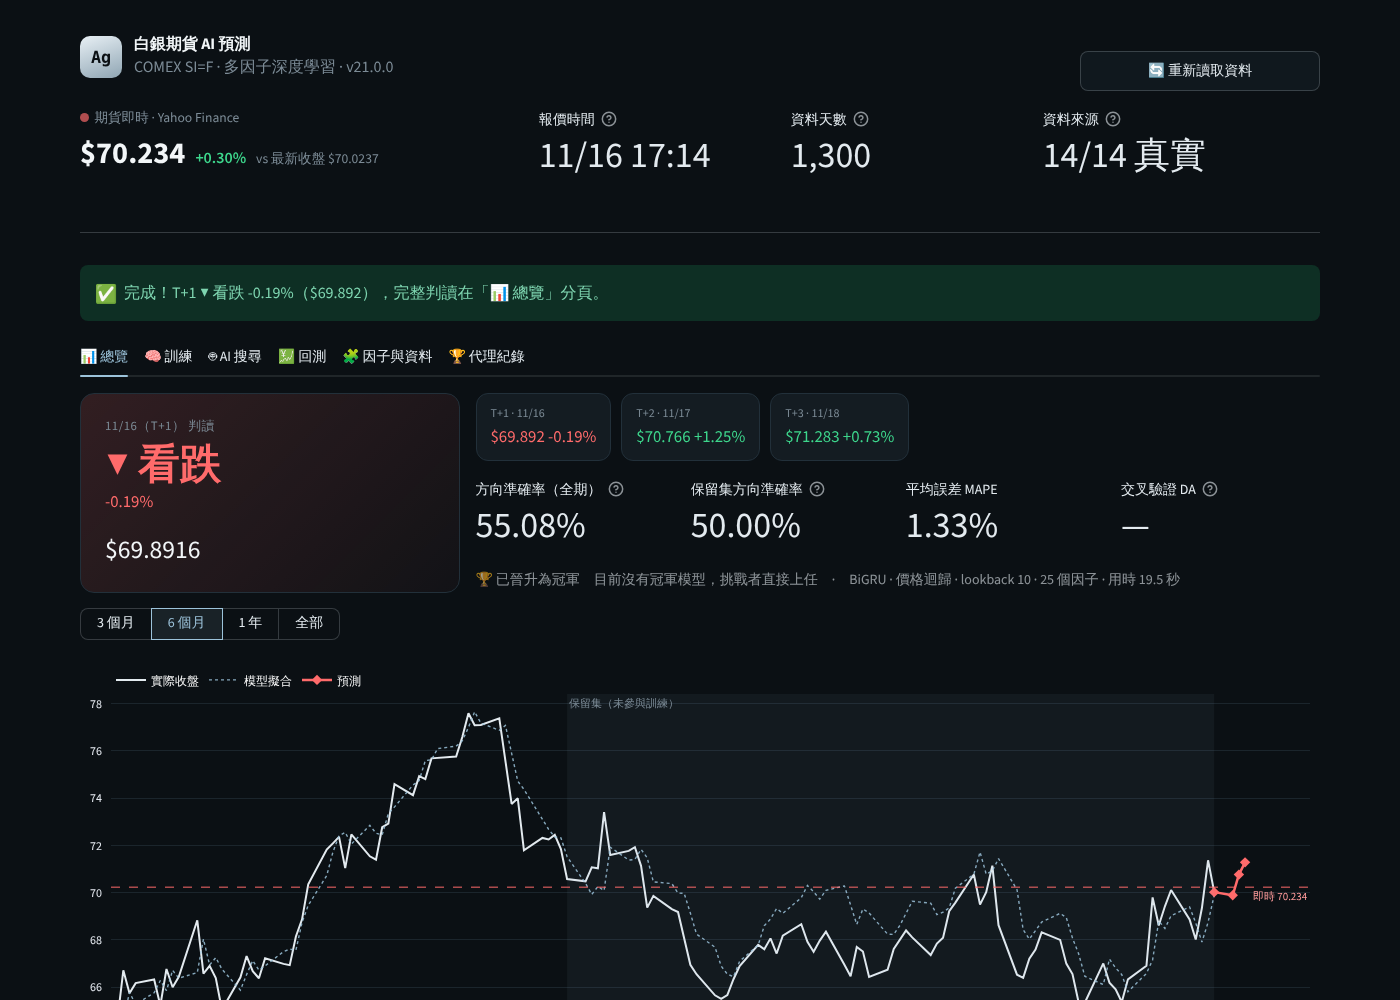
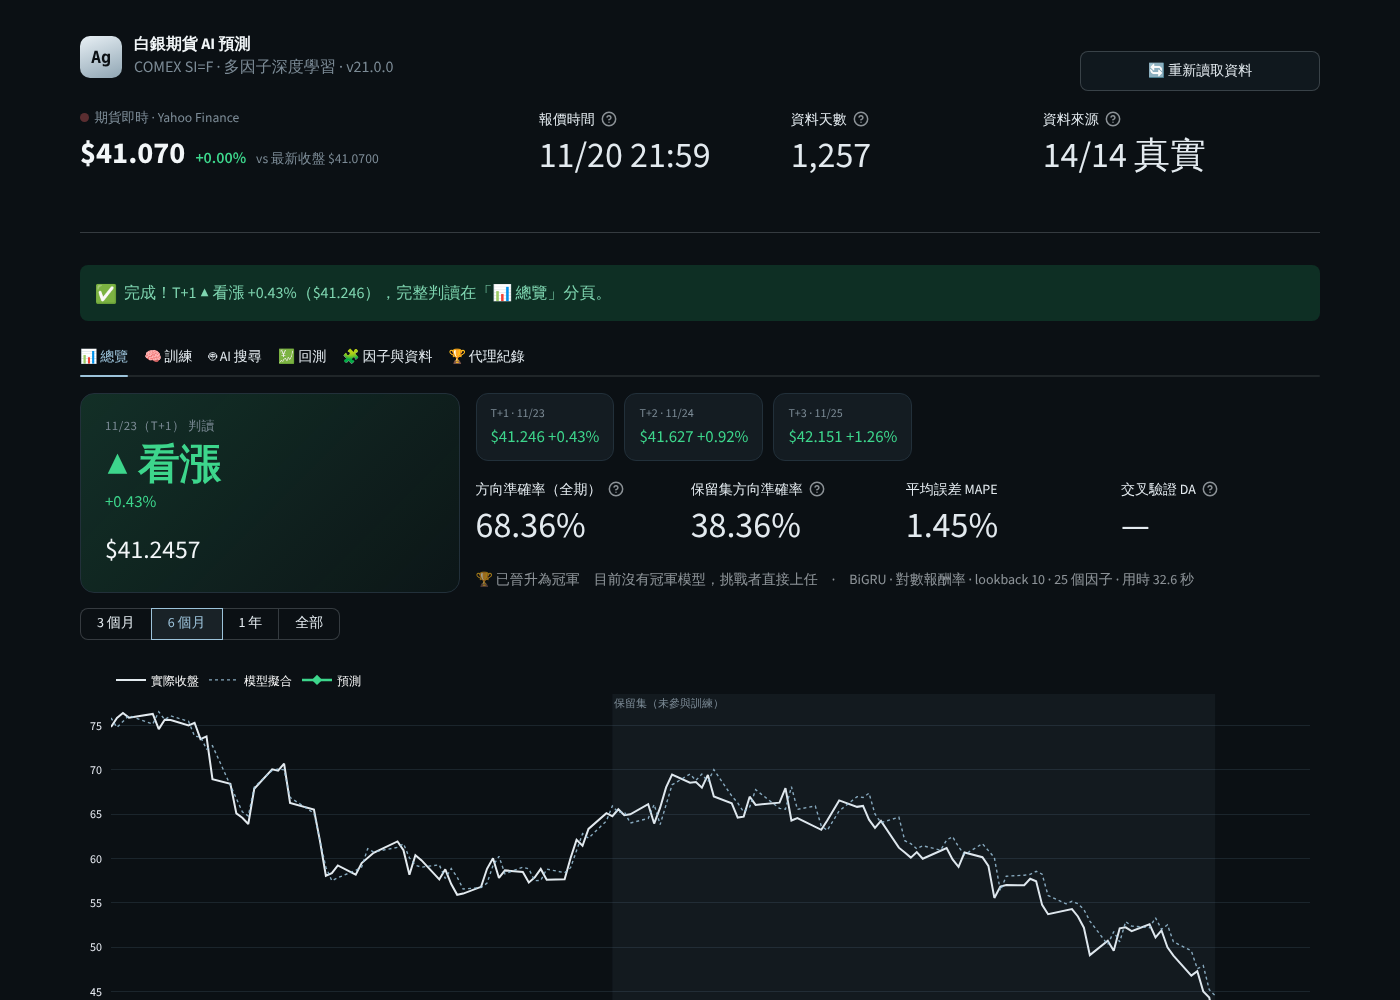
Python web app: fix data sources, default to log-return target, prepare Streamlit Cloud deploy
Verified against live data (all 14 sources real, ~5 s load):
- CFTC Disaggregated renamed its date column to report_date_as_yyyy_mm_dd
- Treasury TIPS XML field renamed BC_5YEAR -> TC_5YEAR
- Google Trends needs a session cookie and 'today 5-y' time range
- Default prediction target is now logreturn: price-level models had 3-7%
  level error, producing implausible T+1 moves (+16%, -37%); add a warning
  when T+1 exceeds 3x recent daily volatility
- CPU-only torch in requirements; root .streamlit/config.toml for Cloud
- README: Streamlit Community Cloud deploy steps; real-data screenshot

Claude-Session: https://claude.ai/code/session_01WDdspXUzGJyR9Gm2KvGEDq

diff --git a/python/silver_trader/sources.py b/python/silver_trader/sources.py
@@ -28,11 +28,12 @@ UA = ("Mozilla/5.0 (Windows NT 10.0; Win64; x64) AppleWebKit/537.36 "
 # ══════════════════════════════════════════════════════════════
 # 網路入口（測試時 monkeypatch 這幾個函式）
 # ══════════════════════════════════════════════════════════════
-def http_get(url: str, timeout: float = 12.0, headers: dict | None = None) -> requests.Response:
-    h = {"User-Agent": UA, "Accept": "*/*"}
+def http_get(url: str, timeout: float = 12.0, headers: dict | None = None,
+             session: requests.Session | None = None) -> requests.Response:
+    h = {"User-Agent": UA, "Accept": "*/*", "Accept-Language": "en-US,en;q=0.9"}
     if headers:
         h.update(headers)
-    r = requests.get(url, timeout=timeout, headers=h)
+    r = (session or requests).get(url, timeout=timeout, headers=h)
     r.raise_for_status()
     return r
 
@@ -219,9 +220,10 @@ class AuxResult:
 def fetch_cot() -> AuxResult:
     """CFTC COT（Disaggregated 管理基金淨部位 → Legacy 非商業淨部位）。"""
     sources = [
-        ("CFTC Disaggregated", "https://publicreporting.cftc.gov/resource/72hh-3qpy.json",
-         "as_of_date_form_yyyy_mm_dd", "m_money_positions_long_all", "m_money_positions_short_all"),
-        ("CFTC Legacy", "https://publicreporting.cftc.gov/resource/6dca-aqww.json",
+        # 2026 年起 Disaggregated 資料集已沒有 as_of_date_form_yyyy_mm_dd 欄位，日期改用 report_date_as_yyyy_mm_dd
+        ("CFTC Disaggregated（管理基金）", "https://publicreporting.cftc.gov/resource/72hh-3qpy.json",
+         "report_date_as_yyyy_mm_dd", "m_money_positions_long_all", "m_money_positions_short_all"),
+        ("CFTC Legacy（非商業）", "https://publicreporting.cftc.gov/resource/6dca-aqww.json",
          "report_date_as_yyyy_mm_dd", "noncomm_positions_long_all", "noncomm_positions_short_all"),
     ]
     wheres = [
@@ -257,7 +259,8 @@ def fetch_tips(years: list[int]) -> AuxResult:
             xml = http_get(f"{base}?data=daily_treasury_real_yield_curve&field_tdr_date_value={y}", timeout=15).text
             for blk in re.findall(r"<m:properties>[\s\S]*?</m:properties>", xml):
                 dm = re.search(r"<d:NEW_DATE[^>]*>(\d{4}-\d{2}-\d{2})", blk)
-                vm = re.search(r"<d:BC_5YEAR[^>]*>([\d.\-]+)</d:BC_5YEAR>", blk)
+                # 美國財政部已把欄位由 BC_5YEAR 改名為 TC_5YEAR，兩種都接受
+                vm = re.search(r"<d:(?:TC|BC)_5YEAR[^>]*>([\d.\-]+)</d:(?:TC|BC)_5YEAR>", blk)
                 if dm and vm:
                     recs[pd.Timestamp(dm.group(1))] = float(vm.group(1))
         except Exception as e:  # noqa: BLE001
@@ -265,7 +268,7 @@ def fetch_tips(years: list[int]) -> AuxResult:
     if recs:
         s = pd.Series(recs).sort_index()
         return AuxResult(s, "US Treasury", True, f"{len(s)} 筆")
-    return AuxResult(None, "無", False, "；".join(errors[-2:]))
+    return AuxResult(None, "無", False, "；".join(errors[-2:]) or "回應中找不到 5 年期 TIPS 欄位")
 
 
 def fetch_fear_greed() -> AuxResult:
@@ -305,15 +308,20 @@ def fetch_stocktwits() -> AuxResult:
 
 
 def fetch_google_trends(start: pd.Timestamp) -> AuxResult:
-    t = f"{start:%Y-%m} {datetime.now():%Y-%m}"
+    """Google Trends「silver」美國週度熱度。需要先拿到 Google 的 cookie，時間範圍用 "today 5-y"。"""
     try:
+        sess = requests.Session()
+        try:
+            http_get("https://trends.google.com/trends/?geo=US", timeout=12, session=sess)
+        except Exception:  # noqa: BLE001
+            pass
         q = urlencode({"hl": "en-US", "tz": "-480", "req": json.dumps(
-            {"comparisonItem": [{"keyword": "silver", "geo": "US", "time": t}], "category": 0, "property": ""})})
-        txt = http_get(f"https://trends.google.com/trends/api/explore?{q}", timeout=12).text
+            {"comparisonItem": [{"keyword": "silver", "geo": "US", "time": "today 5-y"}], "category": 0, "property": ""})})
+        txt = http_get(f"https://trends.google.com/trends/api/explore?{q}", timeout=12, session=sess).text
         widgets = json.loads(txt[txt.index("{"):]).get("widgets", [])
         w = next(w for w in widgets if w.get("id") == "TIMESERIES")
         q2 = urlencode({"hl": "en-US", "tz": "-480", "token": w["token"], "req": json.dumps(w["request"])})
-        txt2 = http_get(f"https://trends.google.com/trends/api/widgetdata/multiline?{q2}", timeout=12).text
+        txt2 = http_get(f"https://trends.google.com/trends/api/widgetdata/multiline?{q2}", timeout=12, session=sess).text
         tl = json.loads(txt2[txt2.index("{"):])["default"]["timelineData"]
         s = pd.Series({pd.Timestamp(int(p["time"]), unit="s").normalize(): float((p.get("value") or [50])[0]) for p in tl}).sort_index()
         if s.empty:

diff --git a/python/tests/fakes.py b/python/tests/fakes.py
@@ -45,18 +45,18 @@ def install(monkeypatch=None, *, quote_ok=True, quote_age_h=0.2, history_ok=True
         t = pd.Timestamp(datetime.now(timezone.utc) - timedelta(hours=quote_age_h))
         return pd.DataFrame({"Close": [qp]}, index=pd.DatetimeIndex([t]))
 
-    def http_get(url, timeout=12.0, headers=None):
+    def http_get(url, timeout=12.0, headers=None, session=None):
         if not aux_ok or "stooq" in url or "finance.yahoo" in url:
             raise RuntimeError("network blocked")
         if "publicreporting.cftc.gov" in url:
             d = pd.date_range(end=pd.Timestamp.now(), periods=150, freq="W-TUE")
-            return FakeResp(json.dumps([{"as_of_date_form_yyyy_mm_dd": x.strftime("%Y-%m-%dT00:00:00"),
+            return FakeResp(json.dumps([{"report_date_as_yyyy_mm_dd": x.strftime("%Y-%m-%dT00:00:00"),
                                          "m_money_positions_long_all": str(40000 + i * 50),
                                          "m_money_positions_short_all": "20000"} for i, x in enumerate(d)]))
         if "treasury.gov" in url:
             y = url.split("=")[-1]
             blocks = "".join(f"<m:properties><d:NEW_DATE m:type=\"Edm.DateTime\">{y}-{m:02d}-15T00:00:00</d:NEW_DATE>"
-                             f"<d:BC_5YEAR m:type=\"Edm.Double\">{1.5 + m / 20:.2f}</d:BC_5YEAR></m:properties>"
+                             f"<d:TC_5YEAR m:type=\"Edm.Double\">{1.5 + m / 20:.2f}</d:TC_5YEAR></m:properties>"
                              for m in range(1, 13))
             return FakeResp(blocks)
         if "dataviz.cnn.io" in url:
@@ -66,6 +66,8 @@ def install(monkeypatch=None, *, quote_ok=True, quote_age_h=0.2, history_ok=True
         if "stocktwits" in url:
             return FakeResp(json.dumps({"messages": [{"entities": {"sentiment": {"basic": "Bullish" if i % 3 else "Bearish"}}} for i in range(30)]}))
         if "trends.google.com" in url:
+            if "/trends/?" in url:
+                return FakeResp("")
             if "explore" in url:
                 return FakeResp(")]}'\n" + json.dumps({"widgets": [{"id": "TIMESERIES", "token": "t", "request": {}}]}))
             d = pd.date_range(end=pd.Timestamp.now(), periods=260, freq="W")

diff --git a/python/app.py b/python/app.py
@@ -177,6 +177,11 @@ def tab_overview():
         return
 
     up, pct = r.t1_up, r.t1_pct
+    vol = float(md.frame["price"].pct_change().tail(60).std() * 100)
+    if np.isfinite(vol) and vol > 0 and abs(pct) > 3 * vol:
+        st.warning(f"這次預測的明日漲跌 **{pct:+.2f}%**，超過近 60 日每日波動（約 ±{vol:.1f}%）的 3 倍，可信度很低。"
+                   + ("建議在「訓練」分頁把預測目標改成「對數報酬率」再訓練一次。" if r.params.pred_target != "logreturn" else "建議重新訓練或換一種模型。"),
+                   icon="⚠")
     left, right = st.columns([1, 2.2])
     with left:
         st.markdown(ui.signal_card(up, pct, float(r.future_prices[0]), r.t1_confidence,

diff --git a/python/silver_trader/config.py b/python/silver_trader/config.py
@@ -86,7 +86,9 @@ PRED_TARGETS = {
 @dataclass
 class TrainParams:
     algorithm: str = "BiGRU"
-    pred_target: str = "price"
+    # 預設用對數報酬率：實測真實資料時，直接預測「價格水準」的誤差（3–7%）和單日漲跌差不多大，
+    # 推算出的明日漲跌幅會失真（例如 +16%）；預測報酬率的幅度合理，價格誤差也較小。
+    pred_target: str = "logreturn"
     lookback: int = 10
     layers: int = 32
     epochs: int = 400

diff --git a/python/README.md b/python/README.md
@@ -4,9 +4,33 @@
 
 ![總覽](docs/overview.png)
 
-> 截圖使用測試用的假資料；實際執行會抓真實行情。
+> 總覽截圖為 2026-11-22 以真實行情實際執行的結果（BiGRU、對數報酬率、200 epochs）；其他截圖使用測試用的假資料。
 
-## 安裝與執行
+## 🌐 部署成網站（Streamlit Community Cloud，免費）
+
+Python 版在伺服器上抓資料，**沒有瀏覽器 CORS 的限制**，不需要任何 proxy 或中繼。2026-11 實測 14 個資料來源全部取得真實資料，完整載入約 5 秒。
+
+1. 到 https://share.streamlit.io 用 GitHub 帳號登入，授權讀取 `frk618-ship-it/silver-ai-trader`。
+2. 按 **Create app** → **Deploy a public app from GitHub**（或「Yup, I have an app」）。
+3. 填入：
+
+   | 欄位 | 值 |
+   | --- | --- |
+   | Repository | `frk618-ship-it/silver-ai-trader` |
+   | Branch | `main` |
+   | Main file path | `python/app.py` |
+   | App URL | 自訂，例如 `silver-ai` → `https://silver-ai.streamlit.app` |
+
+4. 展開 **Advanced settings**，Python version 選 **3.12** → **Deploy**。第一次安裝套件約 3–5 分鐘。
+5. （建議）部署後在 App 的 **Settings → Sharing** 設成只有指定 email 可以看。所有訪客會共用同一份模型與預測紀錄。
+
+雲端版的注意事項：
+
+- **模型與紀錄不會永久保存**：App 閒置一段時間會休眠，或重新部署時，伺服器上的模型、冠軍、預測日誌都會清空，需要重新訓練。之後推到 `main` 的程式更新會自動重新部署。
+- **速度**：免費主機 CPU 較少。標準 400 epochs 約 20 秒（LSTM／Transformer／TimesFM）到 70 秒（BiGRU）。
+- **相依套件**：`requirements.txt` 指定只裝 CPU 版 PyTorch，避免下載用不到的 GPU 函式庫。
+
+## 安裝與執行（本機）
 
 需要 Python 3.10 以上。
 
@@ -48,6 +72,8 @@ streamlit run app.py
 
 **保留**：25 個因子與計算方式、四種模型結構（BiGRU、LSTM、Transformer、TimesFM 風格）、四種預測目標（價格、方向、雙頭、對數報酬率）、方向懲罰 Huber loss、時序保留集與冠軍／挑戰者晉升規則、預測日誌對帳、回測規則。
 
+**預設預測目標改為「對數報酬率」**：用真實資料實測，直接預測價格水準時誤差 3–7%，和單日漲跌一樣大，推算出的明日漲跌會失真（例如 +16%、−37%）。改預測報酬率後幅度合理（±0.5–1.2%），價格誤差也較小。若預測的漲跌超過近期每日波動的 3 倍，總覽會顯示警告。
+
 **修正**（HTML 版的方法上的問題）：
 
 1. **方向懲罰 loss**：HTML 版拿「同一個 batch 相鄰樣本」當前一天，但訓練時 batch 是打亂的，相鄰樣本其實不是前一天；現在改用每個樣本真正的前一日價格。
@@ -57,6 +83,7 @@ streamlit run app.py
 **其他**：
 
 - 不再需要 CORS proxy（Python 直接連資料來源，較快也較穩）；資料來源改以 yfinance 為主。
+- 資料來源格式更新（2026-11 實測發現）：CFTC Disaggregated 的日期欄位改名、美國財政部 TIPS 欄位由 `BC_5YEAR` 改為 `TC_5YEAR`、Google Trends 需要先取得 cookie 且時間範圍要用 `today 5-y`。修正後 14 個來源全部是真實資料。
 - 輔助因子失敗時以固定中性值補位，不再用隨機數（結果可重現）；可勾選固定亂數種子。
 - PyTorch 的 GRU/LSTM 用標準 sigmoid 閘門（TF.js 預設是 hardSigmoid），因此與 HTML 版的模型檔**不互通**。
 - 移除 WebGL 時代的「單元數上限 64」限制。

diff --git a/README.md b/README.md
@@ -2,6 +2,9 @@
 
 白銀期貨多因子深度學習預測系統。
 
+> 🌐 **建議使用 Python 網頁版**：伺服器端抓資料，不受瀏覽器 CORS 限制，14 個資料來源全部可用。部署到 Streamlit Community Cloud 的步驟見 [`python/README.md`](python/README.md)。
+> 瀏覽器版（v2 與舊版）目前因為 Yahoo 不允許網頁直接讀取、公開 proxy 已失效，**無法取得資料**。
+>
 > ✨ **v2 網頁版（重新設計 UI／UX）** → https://frk618-ship-it.github.io/silver-ai-trader/v2/ ，說明見 [`v2/`](v2/README.md)。
 >
 > 🐍 **新版：Python（Streamlit + PyTorch）** → 見 [`python/`](python/README.md)，介面重新設計，執行 `streamlit run python/app.py`。
